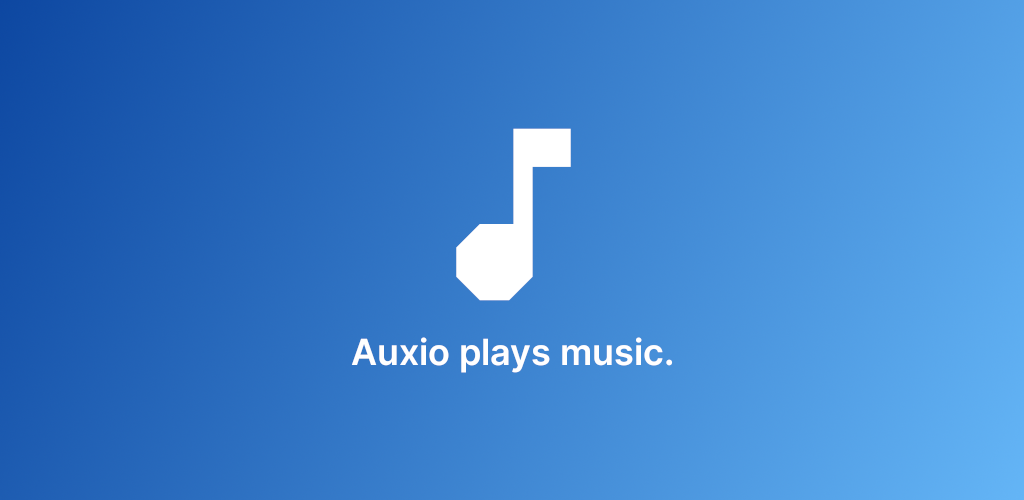
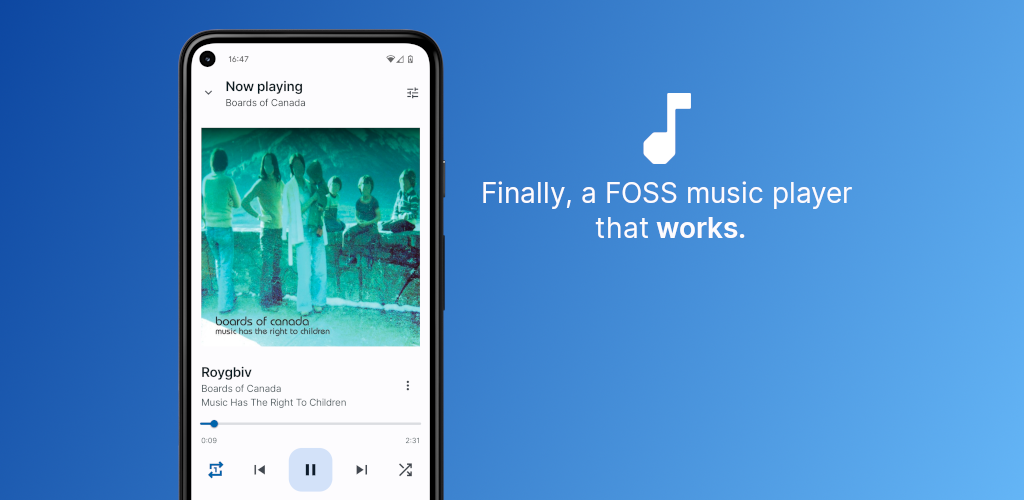
info: update branding
Update the app icon and banner to be more nuanced and appealing.

Changed region(s): [[0.1562, 0.06, 0.8438, 1.0], [0.625, 0.18, 0.6875, 0.33]]

diff --git a/CHANGELOG.md b/CHANGELOG.md
@@ -9,6 +9,7 @@
     - Fix issue where widget covers would not load
     - Use new media notification panel style
     - Add predictive back navigation
+- Auxio has a new, more refined icon style
 
 #### What's Improved
 - Playback bar now has a marquee effect
@@ -19,6 +20,8 @@
 - Fixed "@android:string/<ok/cancel>" strings from appearing in dialog
 buttons
 - Fixed issue where LG phones would not show metadata in the notification 
+- Fixed issue where the transition would be wrong when navigating out of the
+detail views after a rotation
 
 #### What's Changed
 - Menus are now opened using a new button to the side of all items
